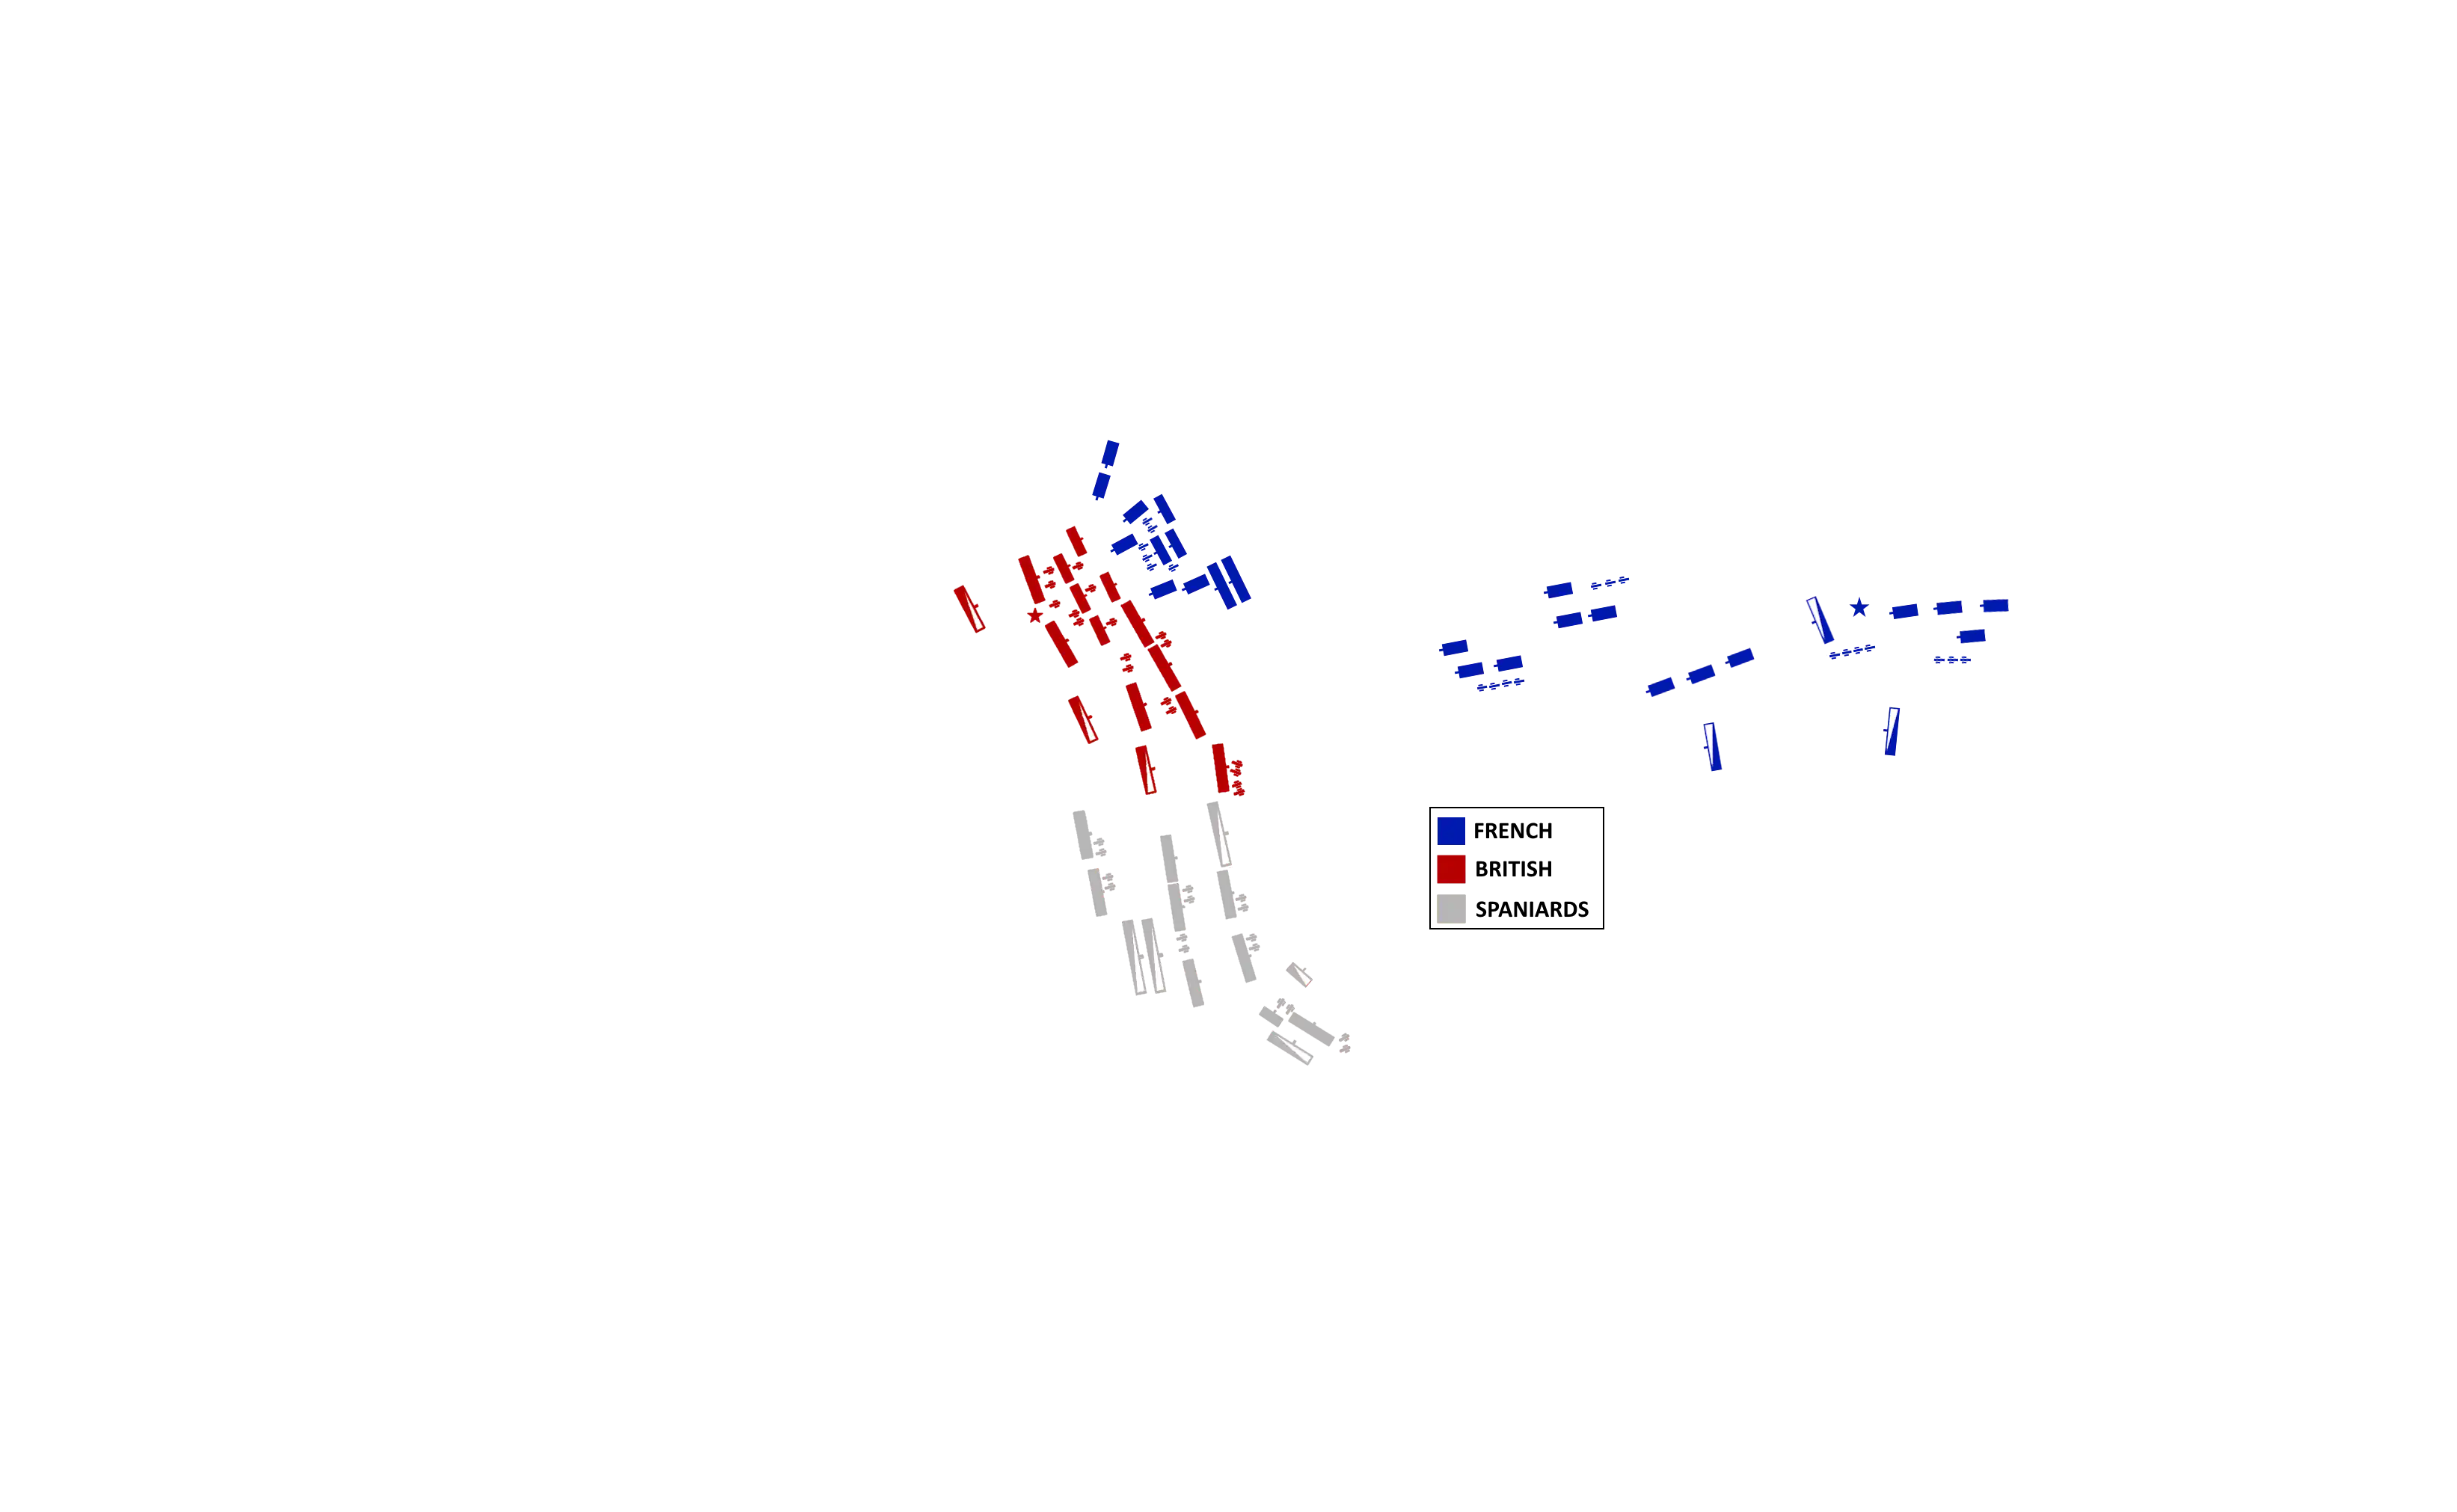
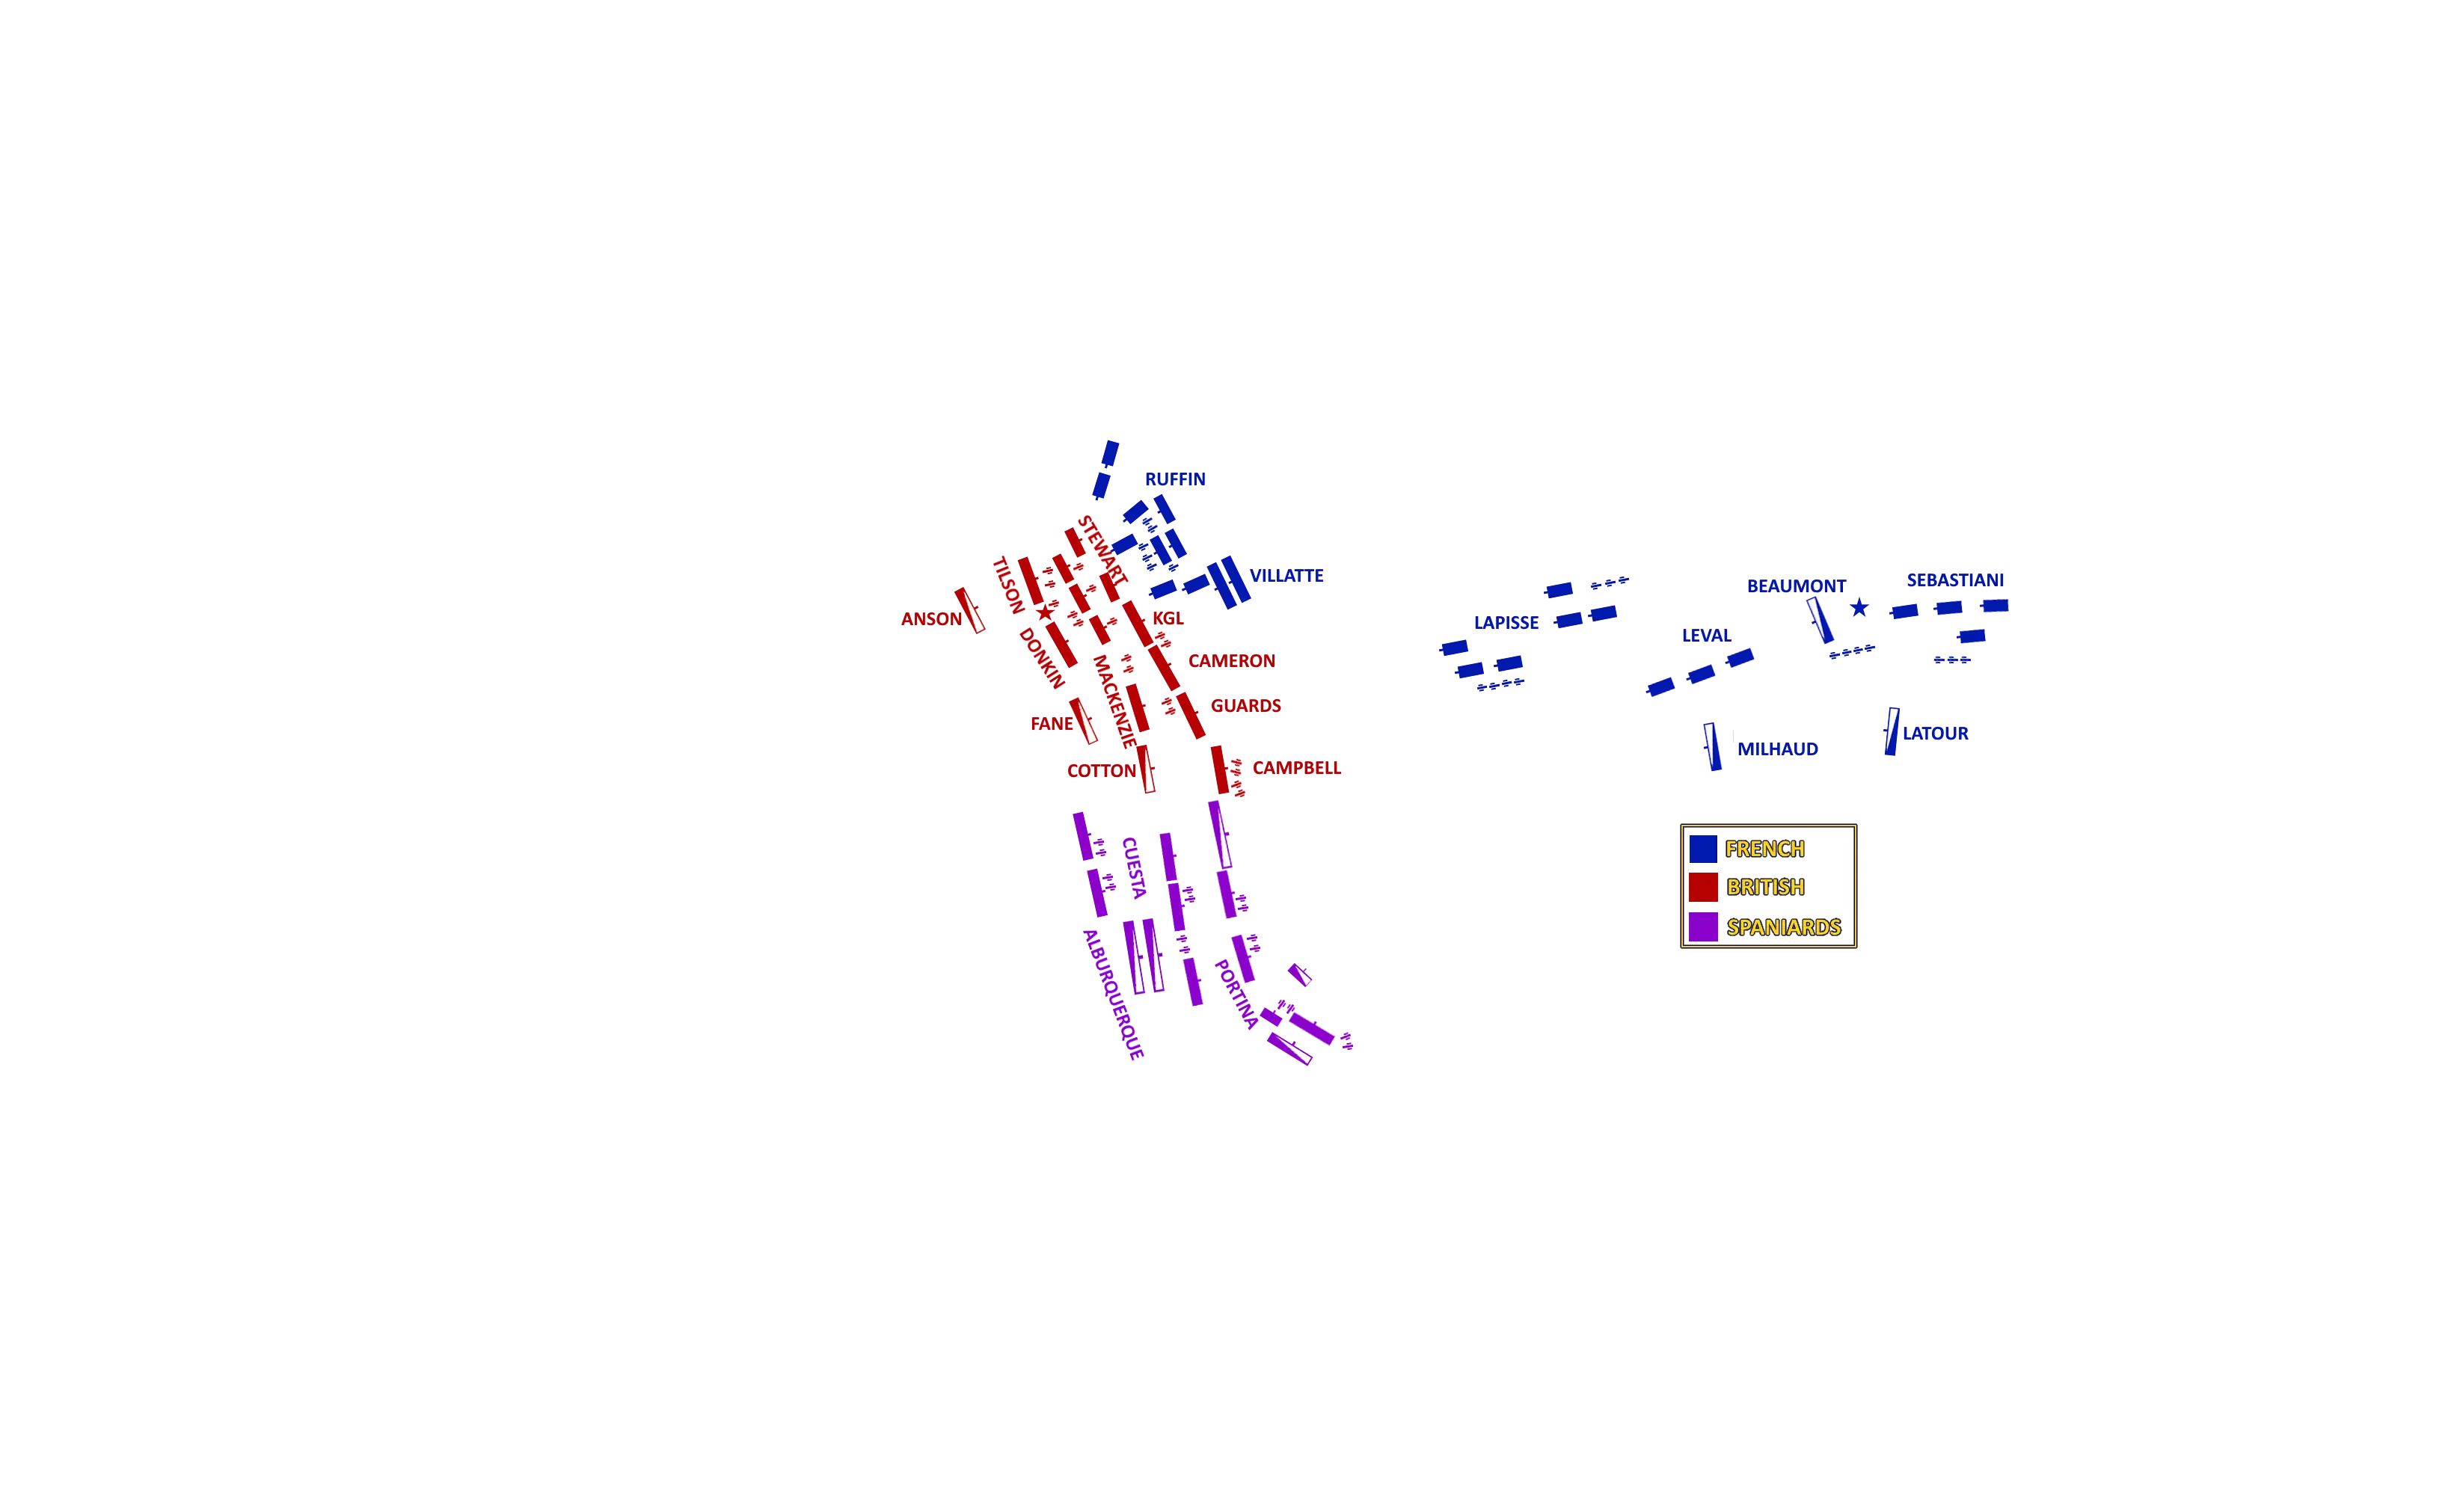
NEW MAP

diff --git a/src/components/DevicePreviewer.css b/src/components/DevicePreviewer.css
@@ -181,24 +181,24 @@
     top: 0;
     left: 50%;
     transform: translateX(-50%);
-    width: 160px;
-    height: 32px;
+    width: 60px;
+    height: 24px;
     background: #000;
-    border-bottom-left-radius: 20px;
-    border-bottom-right-radius: 20px;
+    border-bottom-left-radius: 16px;
+    border-bottom-right-radius: 16px;
     z-index: 20;
 }
 
 .phone-notch::before {
     content: '';
     position: absolute;
-    top: 10px;
+    top: 8px;
     left: 50%;
     transform: translateX(-50%);
-    width: 60px;
-    height: 6px;
+    width: 24px;
+    height: 4px;
     background: #222;
-    border-radius: 3px;
+    border-radius: 2px;
 }
 
 /* Home indicator bar */

diff --git a/src/index.css b/src/index.css
@@ -447,6 +447,10 @@ button {
   border-radius: 0;
 }
 
+.device-mobile .app-header {
+  padding-top: 24px; /* Push header down to avoid overlapping the notch */
+}
+
 /* --- Global Clear Filters / Close Units Adjustments --- */
 .desktop-clear-filters,
 .desktop-close-units {